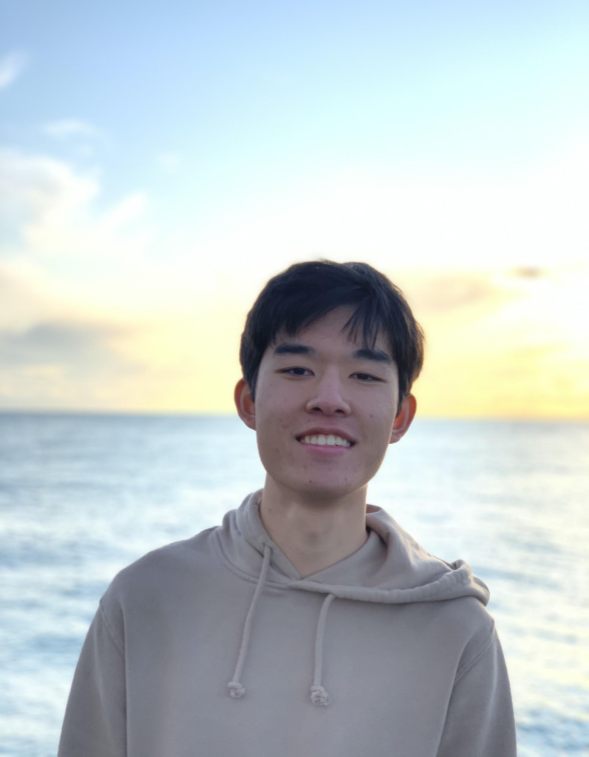
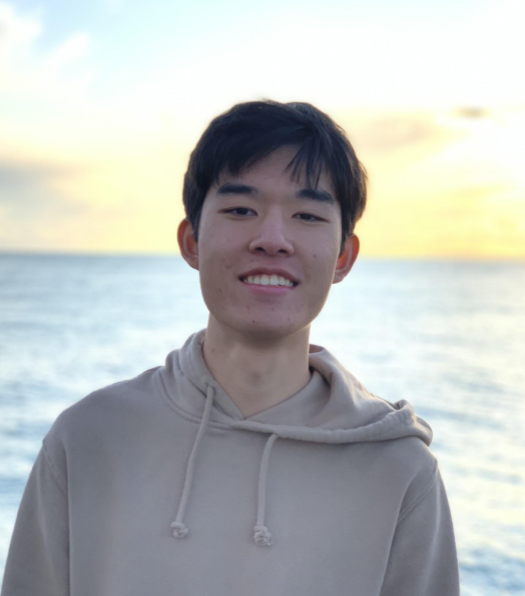
website fix

diff --git a/assets/css/style.scss b/assets/css/style.scss
@@ -18,11 +18,12 @@ section {
 
 [title~=home_photo]{
     border-radius: 30px;
-    display: block;
-    max-width: 216px;
+    display: inline-block;
+    max-width: 250px;
     max-height: 150px;
     width: auto;
     height: auto;
+    border: 0.4px solid black;
 }
 
 i 

diff --git a/index.md b/index.md
@@ -32,5 +32,5 @@ Or we don't even need a link.
 ## Who We Are
 
 |![Elon's photo](./docs/images/elon.jpg "home_photo")|![Andrew's photo](./docs/images/andrew.png "home_photo")|![nate's photo](./docs/images/nate.png "home_photo")|
-|[Elon Glouberman](./docs/bio.html#elon-glouberman)|[Andrew Liu](./docs/bio.html#andrew-liu)|[Nathaniel Barrett](./docs/bio.html#nathaniel-barrett)|
-|Project Lead|Project Member|Project Associate|
+|[Elon Glouberman](./docs/bio.html#elon-glouberman)|[Andrew Liu](./docs/bio.html#andrew-liu)|[Nathaniel Barrett](./docs/bio.html#nathaniel-barrett)
+|Project Lead|Project Member|Project Associate
